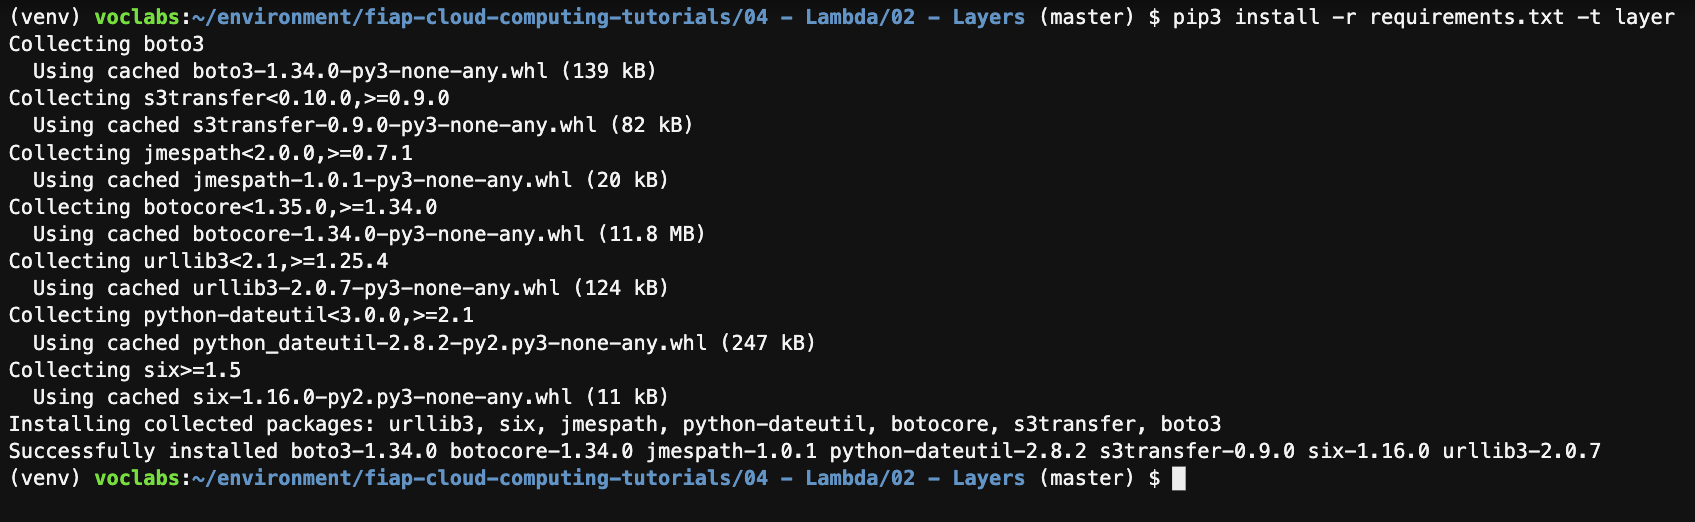
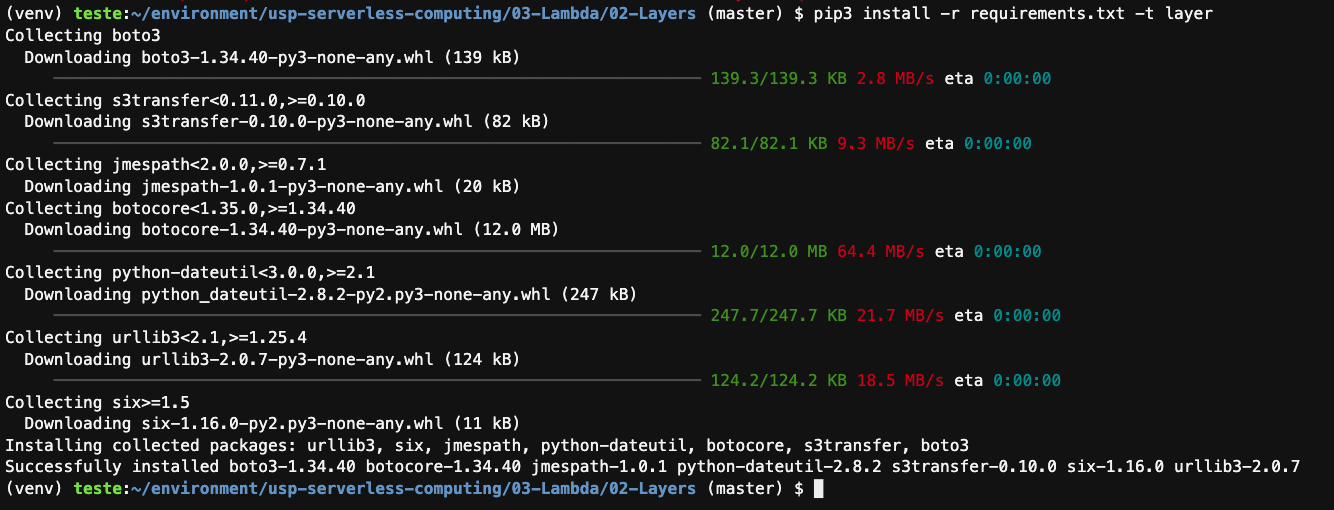
Lambda - Layers

Changed region(s): [[0.0, 0.0, 0.9835, 0.9706], [0.5225, 0.5882, 0.7991, 0.6471]]

diff --git a/03-Lambda/02-Layers/README.md b/03-Lambda/02-Layers/README.md
@@ -1,31 +1,158 @@
-# Aula 02.2 - Lambda Layers
+# Aula 03.2 - Lambda Layers
 
 
-1. No terminal do IDE criado no cloud9 execute o comando `cd ~/environment/fiap-cloud-computing-tutorials/04\ -\ Lambda/02\ -\ Layers/` para entrar na pasta que fara este exercicio.
+1. No terminal do IDE criado no cloud9 execute o comando `cd ~/environment/usp-serverless-computing/03-Lambda/02-Layers/` para entrar na pasta que fara este exercicio.
    
 2. Iniciar o repositório de trabalho `sls create --template "aws-python3"`.
-  
+
     ![img/slscreate.png](img/slscreate.png)
+
 3. Crie um arquivo chamado requirements.txt com o conteúdo 'boto3' Crie o arquivo com o comando `c9 open requirements.txt`. Salve com CTRL+S.
        
       ![img/boto3.png](img/boto3.png)
+
+<blockquote>
+O arquivo `requirements.txt` é um arquivo de texto usado em projetos Python para listar as bibliotecas das quais o projeto depende. Quando o arquivo `requirements.txt` contém apenas a linha `boto3`, isso significa que o projeto tem uma única dependência: a biblioteca `boto3`.
+</blockquote>
+<blockquote>
+A biblioteca `boto3` é o kit de software da Amazon Web Services (AWS) para Python, permitindo que os desenvolvedores Python escrevam software que usa serviços como Amazon S3, Amazon EC2, Amazon DynamoDB, e mais. A presença de `boto3` no `requirements.txt` indica que o projeto provavelmente interage com uma ou mais dessas tecnologias AWS.
+</blockquote>
 
 4. Execute o comando no terminal `pip3 install virtualenv && python3 -m venv ~/venv` para criar um ambiente virtual python e pode baixar as dependencias sem conflitar com nenhuma dependecia já baixada.
 5. Execute o comando no terminal `source ~/venv/bin/activate` para ativar o ambiente virtual criado no passo anterior
 6. Crie uma pasta chamada `layer` utilizando o comando no terminal `mkdir layer`.
 7. Execute o comando `pip3 install -r requirements.txt -t layer` para instalar todas as dependencias listadas no arquivo requirements.txt dentro da pasta layer.
+    
     ![img/pipinstall.png](img/pipinstall.png)
+
 8. Execute o comando `c9 open handler.py` e altere o topo do arquivo handler.py para que fique como na imagem:
+   
    ![img/topoarquivopython.png](img/topoarquivopython.png)
-9.  Execute o comando `c9 open serverless.yml`, No serverless.yml deixe o arquivo como na imagem, podem apagar todo o conteudo existente: 
+
+<blockquote>
+    O comando Python `import sys` seguido de `sys.path.insert(0, '/opt')` é frequentemente usado em projetos que envolvem funções AWS Lambda, especialmente quando se trabalha com Lambda Layers. Vamos detalhar cada parte desse comando e entender sua importância no contexto de Lambda Layers:
+
+   - `import sys`: Este comando importa o módulo `sys` para o script Python. O módulo `sys` é um dos módulos padrão do Python que fornece acesso a algumas variáveis e funções que interagem fortemente com o interpretador Python. Uma dessas variáveis é `sys.path`.
+
+   - `sys.path`: É uma lista de strings que especifica os caminhos do sistema de arquivos onde o interpretador Python procura por módulos para importar. Por padrão, essa lista inclui o diretório onde o script que está sendo executado está localizado, além de outros diretórios padrão onde os módulos Python são normalmente instalados.
+
+   - `sys.path.insert(0, '/opt')`: Este comando insere o caminho `/opt` no início da lista `sys.path`. O método `insert` é utilizado para adicionar o caminho na primeira posição da lista (índice `0`), o que significa que `/opt` será o primeiro diretório a ser procurado pelo Python quando tentar importar um módulo.
+
+   No contexto das AWS Lambda Layers:
+
+   - **Lambda Layers**: São componentes reutilizáveis que contêm bibliotecas, dependências personalizadas ou até mesmo código personalizado que pode ser compartilhado entre várias funções Lambda. Quando você associa uma camada a uma função Lambda, o conteúdo da camada é extraído para o diretório `/opt` no ambiente de execução da Lambda.
+
+   - **Por que usar `sys.path.insert(0, '/opt')` com Lambda Layers?**: Ao utilizar Lambda Layers para incluir bibliotecas ou módulos personalizados, esses elementos são armazenados no diretório `/opt`. Para que sua função Lambda possa importar e utilizar essas bibliotecas ou módulos, é necessário adicionar `/opt` ao `sys.path`, garantindo que o Python procure nesse diretório por módulos a serem importados. Fazer isso no início do seu script Lambda (`sys.path.insert(0, '/opt')`) assegura que os módulos contidos nas camadas sejam acessíveis e tenham prioridade sobre módulos de mesmo nome localizados em outros diretórios da lista `sys.path`.
+
+   Utilizar esse comando é uma prática comum para garantir que as funções Lambda possam facilmente utilizar o código e as bibliotecas armazenadas nas Lambda Layers, promovendo a reutilização de código e simplificando a gestão de dependências em projetos serverless.
+
+</blockquote>
+
+
+9.  Execute o comando `c9 open serverless.yml`, No serverless.yml deixe o arquivo como na imagem, podem apagar todo o conteudo existente:
+     
    ![img/yamllayers.png](img/yamllayers.png)
-10. Fazer deploy da função criada `sls deploy`
+
+<blockquote>
+
+
+**Provider Configuration:**
+
+- `provider:`  
+  Configurações globais do provedor de serviços de nuvem.
+  
+  - `name: aws`  
+    O provedor de serviços de nuvem é a AWS (Amazon Web Services).
+
+  - `runtime: python3.11`  
+    Define Python 3.11 como a runtime para as funções Lambda, especificando a versão da linguagem Python que será usada.
+
+  - `memorySize: 128`  
+    Aloca 128 MB de memória para as funções Lambda, determinando o limite de memória disponível durante a execução.
+
+  - `region: 'us-east-1'`  
+    Especifica a região da AWS onde os recursos serão implantados, neste caso, 'us-east-1' (Norte da Virgínia, EUA).
+
+  - `timeout: 300`  
+    Configura o tempo máximo de execução para as funções Lambda em 300 segundos (5 minutos), após o qual a execução é automaticamente interrompida.
+
+**Package Configuration:**
+
+- `package:`  
+  Configurações de empacotamento da aplicação.
+  
+  - `exclude:`  
+    Lista de padrões de arquivos ou diretórios a serem excluídos do pacote de implantação.
+
+    - `- layer/**`  
+      Exclui o diretório `layer` e seu conteúdo do pacote de implantação. Este diretório é utilizado para definir as dependências das Lambda Layers, mas não deve ser incluído no pacote da função Lambda.
+
+**Layers Configuration:**
+
+- `layers:`  
+  Define uma ou mais Lambda Layers para o serviço.
+  
+  - `LayerDependencies:`  
+    Nome da Lambda Layer dentro da configuração.
+
+    - `path: layer`  
+      Especifica o caminho do diretório contendo os arquivos da Layer. O Serverless Framework empacota tudo neste diretório como uma Layer.
+
+    - `description: "Learning Layers"`  
+      Uma descrição para a Layer, facilitando a identificação de seu propósito.
+
+**Functions Configuration:**
+
+- `functions:`  
+  Define as funções Lambda do serviço.
+  
+  - `hello:`  
+    Configuração para uma função Lambda chamada `hello`.
+
+    - `handler: handler.hello`  
+      Especifica o manipulador da função, indicando que a função `hello` definida no arquivo `handler.py` será invocada quando a função Lambda for acionada.
+
+    - `layers:`  
+      Lista de Lambda Layers a serem associadas à função.
+
+      - `- {Ref: LayerDependenciesLambdaLayer}`  
+        Utiliza uma referência CloudFormation para associar a Layer `LayerDependencies` à função `hello`. Isso permite que a função utilize as bibliotecas ou dependências definidas na Layer.
+
+Este arquivo `serverless.yml` define um serviço serverless com uma função Lambda e uma Lambda Layer. A função `hello` é configurada para utilizar a Layer `LayerDependencies`, que contém dependências externas ou bibliotecas compartilhadas, promovendo a reutilização de código e a organização eficiente das dependências do projeto.
+
+</blockquote>
+
+10.  Fazer deploy da função criada `sls deploy --verbose` no terminal do cloud 9.
+   
    ![img/slsdeploy.png](img/slsdeploy.png) 
+<blockquote>
+Quando se utiliza o comando `sls deploy` com o Serverless Framework para implantar uma aplicação serverless que inclui Lambda Layers, o processo envolve vários passos-chave, especialmente no que diz respeito ao empacotamento de dependências em arquivos ZIP separados e à subida desses arquivos para o Amazon S3. Aqui está uma visão geral detalhada desse processo:
+
+1. **Preparação e Empacotamento:**  
+   O Serverless Framework começa preparando e empacotando os recursos definidos no arquivo `serverless.yml`. Para Lambda Layers, isso envolve identificar os diretórios especificados para cada Layer na configuração e empacotar o conteúdo de cada um desses diretórios em arquivos ZIP separados. Cada Layer é tratado como uma entidade independente, o que permite a reutilização dessas Layers em diferentes funções Lambda dentro do mesmo projeto ou em projetos distintos.
+
+2. **Upload para o S3:**  
+   Uma vez que os arquivos ZIP das Layers foram criados, o Serverless Framework faz o upload desses arquivos para um bucket do AWS S3. O bucket utilizado pode ser especificado pelo usuário ou, na ausência dessa especificação, o Framework pode criar ou utilizar um bucket padrão associado ao projeto. Cada arquivo ZIP de Layer é carregado com um identificador único, garantindo que versões diferentes das Layers sejam mantidas separadamente no S3.
+
+3. **Criação de Lambda Layers na AWS:**  
+   Com os arquivos ZIP já carregados no S3, o Serverless Framework procede à criação das Lambda Layers na AWS. Isso é feito através da AWS CLI ou SDK, fornecendo a localização (URL) do arquivo ZIP no S3 como parte dos parâmetros. A AWS então cria a Layer, tornando-a disponível para ser associada a funções Lambda. Durante esse processo, também são definidas as permissões de acesso à Layer, determinando quais contas AWS ou funções podem utilizá-la.
+
+4. **Associação de Layers a Funções Lambda:**  
+   Para as funções Lambda definidas no mesmo `serverless.yml` que necessitam das Layers, o Serverless Framework configura a associação dessas Layers às funções correspondentes. Isso é feito referenciando as Layers recém-criadas pela sua ARN (Amazon Resource Name), que é a identidade única da Layer na AWS. Assim, quando a função Lambda é invocada, ela tem acesso às bibliotecas e dependências contidas na Layer.
+
+5. **Implantação de Funções Lambda:**  
+   Após a criação e associação das Layers, o processo continua com o empacotamento e implantação das funções Lambda em si. Assim como as Layers, as funções são empacotadas em arquivos ZIP e carregadas para o S3, de onde são implantadas na AWS.
+
+Esse processo automatiza a gestão de dependências e o reuso de código entre funções Lambda, simplificando o desenvolvimento e a implantação de aplicações serverless complexas. Além disso, ao separar as dependências em Layers, reduz-se o tamanho dos pacotes de implantação das funções Lambda, o que pode melhorar os tempos de inicialização a frio e facilitar a manutenção do código.
+
+</blockquote>
+
+
 11. Em uma outra aba do seu navegavor abra o [console da AWS no serviço Lambda](https://us-east-1.console.aws.amazon.com/lambda/home?region=us-east-1#/functions).
 12. Note a função que acabou de criar já esta no painel, para ver a layer clique em "camadas" no menu lateral da página
     ![img/funcoescriadas.png](img/funcoescriadas.png)
 13. Para visualizar as camadas(Layers) criadas abra essa outra [janela](https://us-east-1.console.aws.amazon.com/lambda/home?region=us-east-1#/layers).
     ![img/camadascriadas.png](img/camadascriadas.png)
-13. Para invocar remotamente a função utilize o comando `sls invoke -f hello` no terminal do cloud 9
+14. Para invocar remotamente a função utilize o comando `sls invoke -f hello` no terminal do cloud 9
   ![img/slsinvoke.png](img/slsinvoke.png)
-1.  destrua a função feita `sls remove`
+15.  destrua a função feita `sls remove`
